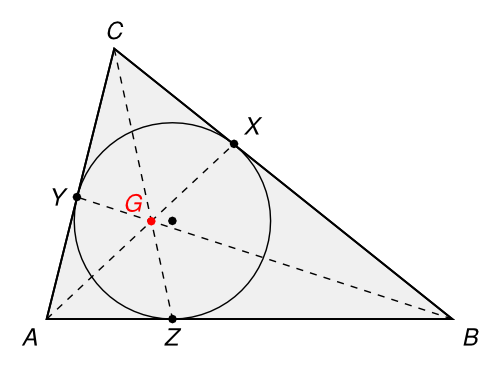
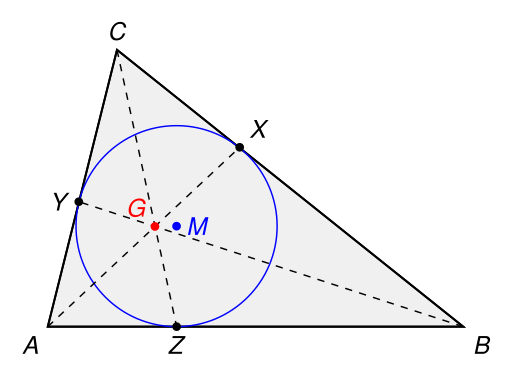
Improve image quality

diff --git a/tikz/triangle-gergonne-point/triangle-gergonne-point.tex b/tikz/triangle-gergonne-point/triangle-gergonne-point.tex
@@ -25,22 +25,24 @@
 
     % Draw polygon
     \tkzDrawPolygon[thick](A,B,C)
-    \tkzDefCircle[in,/tikz/overlay](A,B,C) \tkzGetPoint{Ocircle}\tkzGetLength{dOcircle}
-    \tkzDrawCircle[R](Ocircle,\dOcircle pt)
+    \tkzDefCircle[in,/tikz/overlay](A,B,C) \tkzGetPoint{M}\tkzGetLength{dOcircle}
+    \tkzDrawCircle[R,color=blue](M,\dOcircle pt)
 
-    \tkzInterLC[R,/tikz/overlay](B,C)(Ocircle,\dOcircle pt)\tkzGetPoints{X}{X2}
-    \tkzInterLC[R,/tikz/overlay](A,C)(Ocircle,\dOcircle pt)\tkzGetPoints{Y}{Y2}
-    \tkzInterLC[R,/tikz/overlay](A,B)(Ocircle,\dOcircle pt)\tkzGetPoints{Z}{Z2}
+    \tkzInterLC[R,/tikz/overlay](B,C)(M,\dOcircle pt)\tkzGetPoints{X}{X2}
+    \tkzInterLC[R,/tikz/overlay](A,C)(M,\dOcircle pt)\tkzGetPoints{Y}{Y2}
+    \tkzInterLC[R,/tikz/overlay](A,B)(M,\dOcircle pt)\tkzGetPoints{Z}{Z2}
     \tkzInterLL(A,X)(B,Y)\tkzGetPoint{G}
 
     \tkzDrawSegments[dashed](A,X B,Y C,Z)
 
-    \tkzDrawPoints[size=2,fill=black](Ocircle,X,Y,Z)
+    \tkzDrawPoints[size=2,fill=black](X,Y,Z)
     \tkzDrawPoints[size=2,fill=red,color=red](G)
+    \tkzDrawPoints[size=2,fill=blue,color=blue](M)
 
     \tkzLabelPoints[above right,font=\sansmath\sffamily](X)
     \tkzLabelPoints[left,font=\sansmath\sffamily](Y)
     \tkzLabelPoints[below,font=\sansmath\sffamily](Z)
+    \tkzLabelPoints[blue,right,font=\sansmath\sffamily](M)
     \tkzLabelPoints[red,above left,font=\sansmath\sffamily](G)
 \end{tikzpicture}
 \end{preview}
